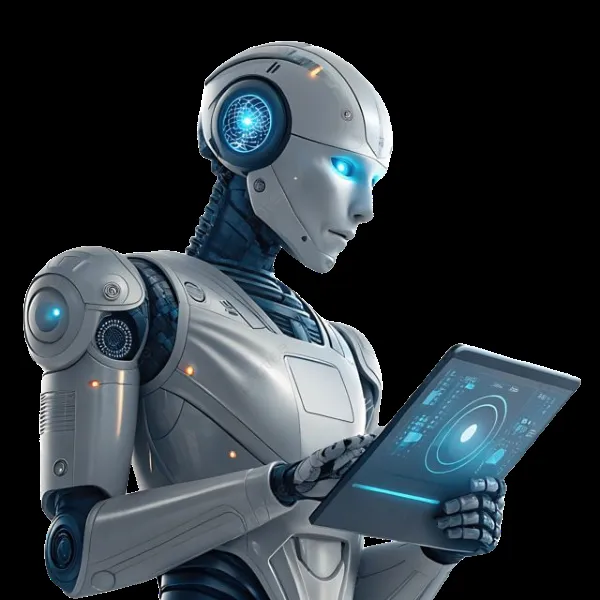
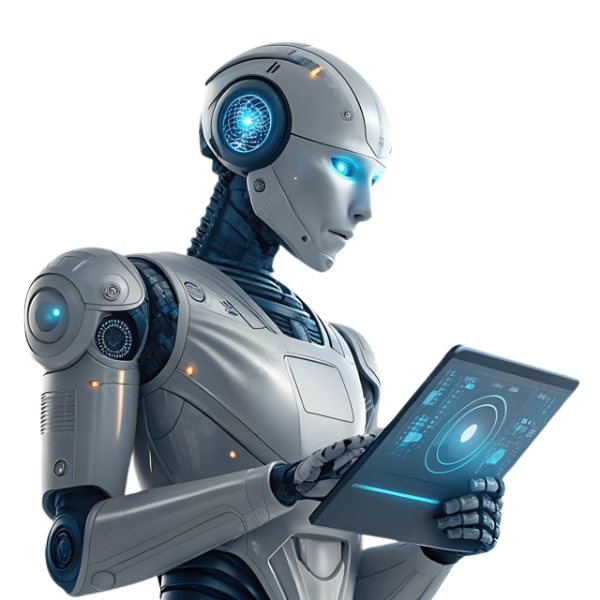
images

diff --git a/myApp/static/css/styles.css b/myApp/static/css/styles.css
@@ -1,9 +1,4 @@
-/*------------------------------------------------------------------
-* Project:        Eventen - Event Conference HTML Templates
-* Author:         HtmlDesign Templates
-* URL:            https://themeforest.net/user/htmldesigntemplates/portfolio
-* Created:        06/26/2024
--------------------------------------------------------------------*/
+
 
 /**Header content CSS**/
 .main_header_area{
@@ -244,7 +239,7 @@
 }
 
 .banner-image{
-  background-image: url(../images/pattern/3.webp);
+  background-image: url(../images/pattern/3.png);
   background-size: contain;
   background-repeat: no-repeat;
  background-position: center ;
@@ -790,7 +785,7 @@ footer .overlay {
 }
 
 .conference-left{
-  background-image: url(../images/pattern/3.webp);
+  background-image: url(../images/pattern/3.png);
   background-repeat: no-repeat;
   background-size: contain;
 }
@@ -927,7 +922,7 @@ footer .overlay {
 }
 
 .ticket-right{
-  background-image: url(../images/pattern/3.webp);
+  background-image: url(../images/pattern/3.png);
   background-size: contain;
   background-repeat: no-repeat;
  background-position: center ;
@@ -941,7 +936,7 @@ footer .overlay {
 /* faq general css */
 
 .general-ques-image{
-  background-image: url(../images/pattern/3.webp);
+  background-image: url(../images/pattern/3.png);
   background-size: contain;
   background-repeat: no-repeat;
  background-position: center ;
@@ -1084,7 +1079,7 @@ right: -25px;
 }
 
 .error .overlay {
-  background-image: url(../images/pattern/3.webp);
+  background-image: url(../images/pattern/3.png);
   background-size: contain;
   background-repeat: no-repeat;
   background-position: center ;
@@ -1240,7 +1235,7 @@ right: -25px;
 /* contact secton css */
 
 .contact {
-  background-image: url(../images/background/4.webp);
+  background-image: url(../images/background/4.png);
   background-repeat: no-repeat;
   background-position: center center;
   background-size: contain;

diff --git a/myApp/templates/coming-soon.html b/myApp/templates/coming-soon.html
@@ -9,7 +9,7 @@
    <div class="container">
     <div class="coming-soon-inner w-lg-80 m-auto position-relative">
      <div class="logo">
-      <img alt="Eventen logo" class="w-40 mb-6" src="{% static 'images/logo/1.webp' %}"/>
+      <img alt="World AI X Summit logo" class="w-40 mb-6" src="{% static 'images/logo/1.webp' %}"/>
      </div>
      <div class="coming-soon-title">
       <h1 class="text-white mb-6">
@@ -89,7 +89,7 @@
      </div>
      <div class="copyright pt-4">
       <p class="text-white">
-       Copyright &copy;2024 Eventen. All Rights Reserved Copyright
+       Copyright &copy;2024 World AI X Summit. All Rights Reserved Copyright
       </p>
      </div>
     </div>

diff --git a/myApp/static/css/default.css b/myApp/static/css/default.css
@@ -1,9 +1,4 @@
-/*------------------------------------------------------------------
-* Project:        Eventen - Event Conference HTML Templates
-* Author:         HtmlDesign Templates
-* URL:            https://themeforest.net/user/htmldesigntemplates/portfolio
-* Created:        06/26/2024
--------------------------------------------------------------------*/
+
 
 
 @import url("https://fonts.googleapis.com/css2?family=Poppins:wght@300;400;500;700&display=swap");

diff --git a/staticfiles/css/default.css b/staticfiles/css/default.css
@@ -1,9 +1,4 @@
-/*------------------------------------------------------------------
-* Project:        Eventen - Event Conference HTML Templates
-* Author:         HtmlDesign Templates
-* URL:            https://themeforest.net/user/htmldesigntemplates/portfolio
-* Created:        06/26/2024
--------------------------------------------------------------------*/
+
 
 
 @import url("https://fonts.googleapis.com/css2?family=Poppins:wght@300;400;500;700&display=swap");

diff --git a/myApp/templates/startup_pitching.html b/myApp/templates/startup_pitching.html
@@ -34,7 +34,7 @@
         <div class="col-lg-6 order-2 order-lg-1">
           <div class="banner-left text-center pb-lg-5 p-md-0">
             <div class="banner-image">
-              <img alt="banner-image" class="w-50" src="{% static 'images/team/robot2.webp' %}" />
+              <img alt="banner-image" class="w-50" src="{% static 'images/team/robot2.png' %}" />
               <br/><br/><br/><br/><br/>
             </div>
           </div>

diff --git a/myApp/static/js/plugin.js b/myApp/static/js/plugin.js
@@ -1,13 +1,5 @@
 
-/*------------------------------------------------------------------
-* Project:        Eventen - Event Conference HTML Templates
-* Author:         HtmlDesignTemplates
-* URL:            https://themeforest.net/user/htmldesigntemplates
-* Created:        05/10/2024
--------------------------------------------------------------------
-
-
- TABLE OF CONTENT
+/*TABLE OF CONTENT
   
   1. Slicknav
   2.jquery-ui

diff --git a/staticfiles/js/plugin.js b/staticfiles/js/plugin.js
@@ -1,13 +1,5 @@
 
-/*------------------------------------------------------------------
-* Project:        Eventen - Event Conference HTML Templates
-* Author:         HtmlDesignTemplates
-* URL:            https://themeforest.net/user/htmldesigntemplates
-* Created:        05/10/2024
--------------------------------------------------------------------
-
-
- TABLE OF CONTENT
+TABLE OF CONTENT
   
   1. Slicknav
   2.jquery-ui

diff --git a/myApp/static/css/plugin.css b/myApp/static/css/plugin.css
@@ -1,10 +1,5 @@
 
-/*------------------------------------------------------------------
-* Project:        Eventen - Event Conference HTML Templates
-* Author:         HtmlDesign Templates
-* URL:            https://themeforest.net/user/htmldesigntemplates/portfolio
-* Created:        06/26/2024
--------------------------------------------------------------------*/
+
 /*
  TABLE OF CONTENT
   1. Slicknav

diff --git a/staticfiles/css/plugin.css b/staticfiles/css/plugin.css
@@ -1,10 +1,5 @@
 
-/*------------------------------------------------------------------
-* Project:        Eventen - Event Conference HTML Templates
-* Author:         HtmlDesign Templates
-* URL:            https://themeforest.net/user/htmldesigntemplates/portfolio
-* Created:        06/26/2024
--------------------------------------------------------------------*/
+
 /*
  TABLE OF CONTENT
   1. Slicknav

diff --git a/staticfiles/css/styles.css b/staticfiles/css/styles.css
@@ -1,9 +1,4 @@
-/*------------------------------------------------------------------
-* Project:        Eventen - Event Conference HTML Templates
-* Author:         HtmlDesign Templates
-* URL:            https://themeforest.net/user/htmldesigntemplates/portfolio
-* Created:        06/26/2024
--------------------------------------------------------------------*/
+
 
 /**lazy loading**/
 .lazy-fade {

diff --git a/myApp/static/js/main.js b/myApp/static/js/main.js
@@ -1,11 +1,3 @@
-/*------------------------------------------------------------------
-* Project:        Eventen - Event Conference HTML Templates
-* Author:         HtmlDesignTemplates
-* URL:            https://themeforest.net/user/htmldesigntemplates
-* Created:        05/10/2024
--------------------------------------------------------------------
-*/
-
 /*
  TABLE OF CONTENT
   

diff --git a/staticfiles/js/main.js b/staticfiles/js/main.js
@@ -1,10 +1,4 @@
-/*------------------------------------------------------------------
-* Project:        Eventen - Event Conference HTML Templates
-* Author:         HtmlDesignTemplates
-* URL:            https://themeforest.net/user/htmldesigntemplates
-* Created:        05/10/2024
--------------------------------------------------------------------
-*/
+
 
 /*
  TABLE OF CONTENT
